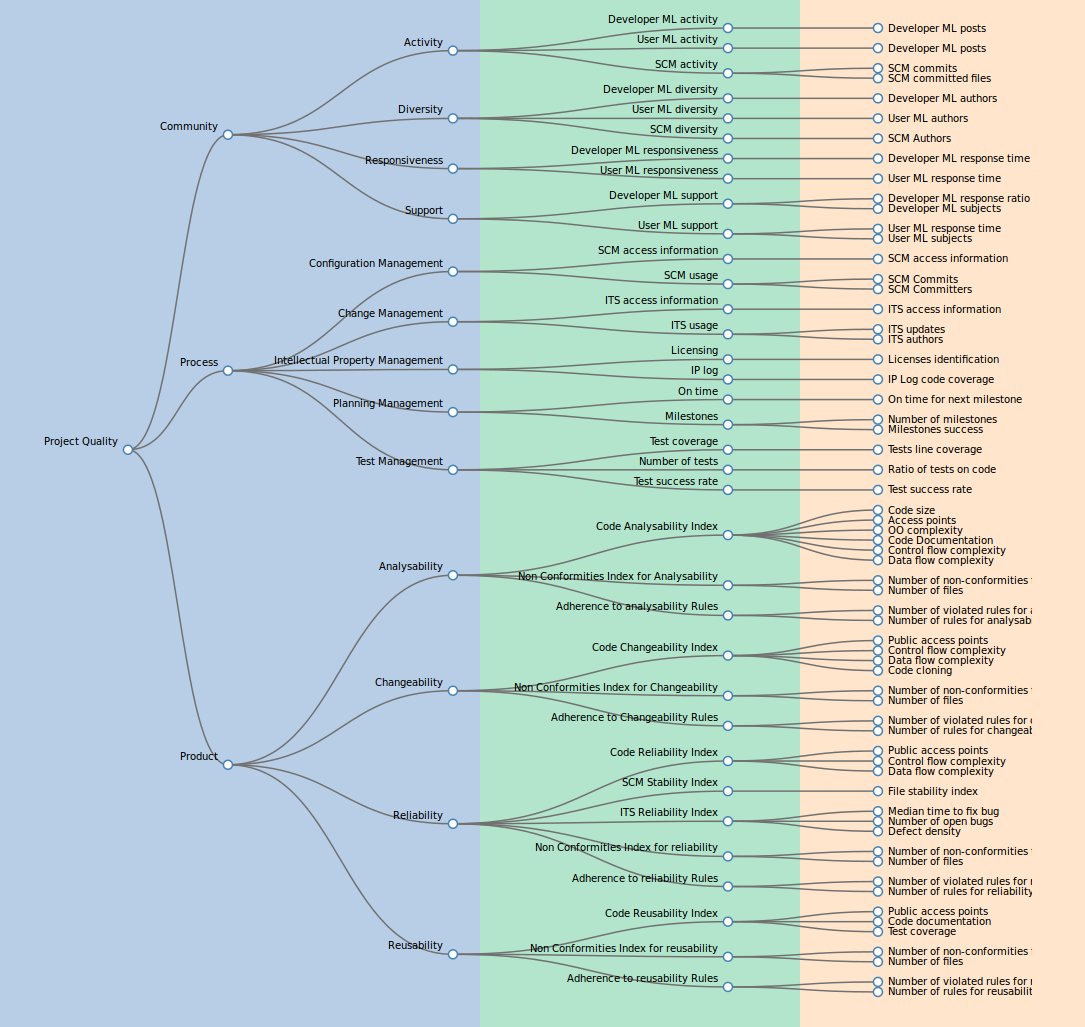
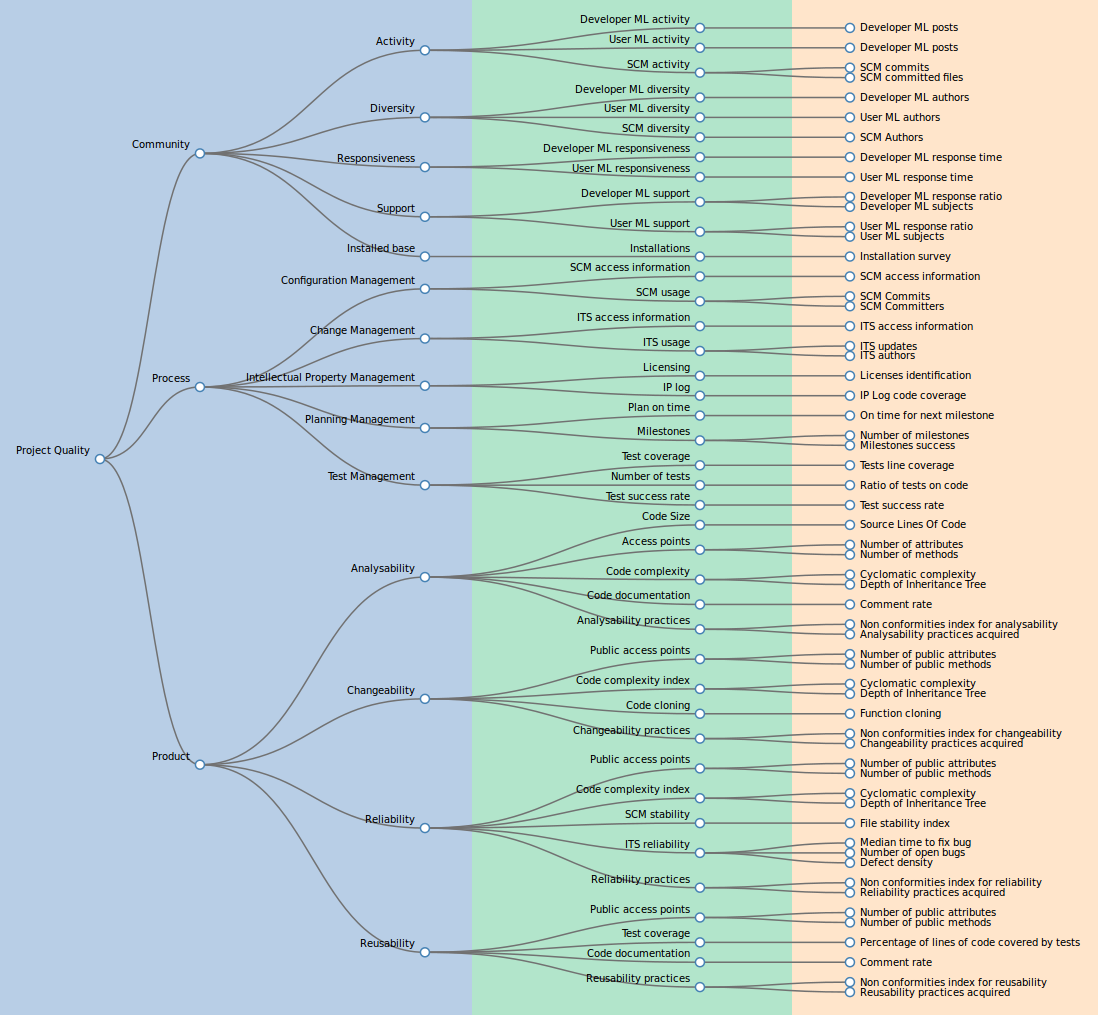
#1 fixed a minor bug in qm, updated pictures.

Changed region(s): [[0.0, 0.0, 0.9733, 1.0], [0.3041, 0.6108, 0.3346, 0.6414], [0.3041, 0.0611, 0.3346, 0.0916]]

diff --git a/scripts/describe_qm/target/concepts.html b/scripts/describe_qm/target/concepts.html
@@ -1,199 +1,156 @@
 <!DOCTYPE html><body>
 <link rel="stylesheet" type="text/css" href="styles.css"/>
 <h1>List of concepts for the PolarSys Maturity Assessment quality model</h1>
-<h2>Concept name</h2>
+<h4>Code complexity (CPX)</h4>
+<p class="desc">Description: The computational complexity of the code: control, data, inheritance.</p>
+<p class="desc">Concept is <b>active</b>.</p>
+<p>Composed of VG, MDIT.</p>
 <h4>Control flow complexity (CPX_CF)</h4>
 <p class="desc">Description: The computational complexity of the control flow structure in the code functions.</p>
 <p class="desc">Concept is <b>active</b>.</p>
 <p>Composed of VG.</p>
-<h2>Concept name</h2>
 <h4>Data flow complexity (CPX_DF)</h4>
 <p class="desc">Description: The complexity of the data flow structure in the code functions.</p>
 <p class="desc">Concept is <b>active</b>.</p>
 <p>Composed of DOPD, DOPT, TOPD, TOPT.</p>
-<h2>Concept name</h2>
 <h4>OO complexity (CPX_OO)</h4>
 <p class="desc">Description: The complexity of the object-oriented architecture and structure. Composed of MDIT (maximum depth of inheritance tree).</p>
 <p class="desc">Concept is <b>active</b>.</p>
 <p>Composed of MDIT.</p>
-<h2>Concept name</h2>
 <h4>Code documentation (CODE_DOC)</h4>
 <p class="desc">Description: The amount of documentation in the code: comment rate, javadoc, etc.</p>
 <p class="desc">Concept is <b>active</b>.</p>
 <p>Composed of COMR.</p>
-<h2>Concept name</h2>
 <h4>Code size (CODE_SIZE)</h4>
 <p class="desc">Description: The overall size of the code.</p>
 <p class="desc">Concept is <b>active</b>.</p>
 <p>Composed of SLOC.</p>
-<h2>Concept name</h2>
 <h4>Access points (ALL_DATA)</h4>
 <p class="desc">Description: The amount of attributes and methods on the class, whatever their visibility is.</p>
 <p class="desc">Concept is <b>active</b>.</p>
 <p>Composed of ATTRS, METHS.</p>
-<h2>Concept name</h2>
 <h4>Public access points (PUBLIC_DATA)</h4>
 <p class="desc">Description: Total number of public classes, interfaces, methods, constructors, annotations and attributes.</p>
 <p class="desc">Concept is <b>active</b>.</p>
 <p>Composed of ATTRS_PUBLIC, METHS_PUBLIC.</p>
-<h2>Concept name</h2>
+<h4>Code cloning (CODE_CLONE)</h4>
+<p class="desc">Description: The amount of duplicated lines in the code.</p>
+<p class="desc">Concept is <b>active</b>.</p>
+<p>Composed of FU_CLONE.</p>
+<h4>Licensing (LIC)</h4>
+<p class="desc">Description: Are licensing issues considered?</p>
+<p class="desc">Concept is <b>active</b>.</p>
+<p>Composed of LIC_IDENT.</p>
 <h4>IP Log (IP_LOG)</h4>
 <p class="desc">Description: Is the intellectual property of contributions checked and enforced?</p>
 <p class="desc">Concept is <b>active</b>.</p>
 <p>Composed of IP_LOG_COV.</p>
-<h2>Concept name</h2>
 <h4>SCM Documentation (SCM_DOCS)</h4>
 <p class="desc">Description: Is there some documentation about the SCM process, rules and conventions?</p>
-<p class="desc">Concept is <b>active</b>.</p>
-<h2>Concept name</h2>
+<p class="desc">Concept is <b>inactive</b> for now.</p>
+<p>Composed of .</p>
 <h4>ITS information access (PUB_ITS_INFO)</h4>
 <p class="desc">Description: Measures the availability of information regarding ITS usage, conventions, access.</p>
 <p class="desc">Concept is <b>active</b>.</p>
-<p>Composed of ITS_ISSUES_OPEN_1M, ITS_ISSUES_OPENERS_1M.</p>
-<h2>Concept name</h2>
+<p>Composed of .</p>
 <h4>ITS usage (ITS_USAGE)</h4>
-<p class="desc">Description: How much the ITS system was used during last month.</p>
+<p class="desc">Description: How much the ITS system was used recently.</p>
 <p class="desc">Concept is <b>active</b>.</p>
 <p>Composed of ITS_UPDATES_1M, ITS_AUTH_1M.</p>
-<h2>Concept name</h2>
+<h4>Installations (INSTALL)</h4>
+<p class="desc">Description: The level of usage of the product.</p>
+<p class="desc">Concept is <b>inactive</b> for now.</p>
+<p>Composed of SURVEY_INSTALL.</p>
 <h4>SCM information access (PUB_SCM_INFO)</h4>
 <p class="desc">Description: Measures the availability of information regarding SCM usage, conventions, access.</p>
 <p class="desc">Concept is <b>active</b>.</p>
-<h2>Concept name</h2>
 <h4>SCM usage (SCM_USAGE)</h4>
 <p class="desc">Description: How much the SCM system was used during last month.</p>
 <p class="desc">Concept is <b>active</b>.</p>
 <p>Composed of SCM_COMMITS_1M, SCM_COMMITTERS_1M.</p>
-<h2>Concept name</h2>
-<h4>SCM Stability Index (SCM_STABILITY_IDX)</h4>
-<p class="desc">Description: How much the files were stable according to the SCM system.</p>
+<h4>SCM Stability (SCM_STABILITY)</h4>
+<p class="desc">Description: How much the files are stable according to the SCM system. 
+A file which has been heavily modified recently lacks experience, tests and feedback. </p>
 <p class="desc">Concept is <b>active</b>.</p>
-<p>Composed of SCM_COMMITS_1M, FILES.</p>
-<h2>Concept name</h2>
-<h4>Code analysability index (CODE_ANA_IDX)</h4>
-<p class="desc">Description: A weighted index of code characteristics that impact analysability.</p>
+<p>Composed of SCM_STABILITY_1M.</p>
+<h4>Analysability practices (PRACTICES_ANA)</h4>
+<p class="desc">Description: What practices (rules checked) related to analysability are violated, and how often?</p>
 <p class="desc">Concept is <b>active</b>.</p>
-<h2>Concept name</h2>
-<h4>Non conformities index for analysability (RULES_ANA_IDX)</h4>
-<p class="desc">Description: Number of non conformities to analysability rules found in the artefact, divided by the number of files.</p>
+<p>Composed of NCC_ANA_IDX, ROKR_ANA.</p>
+<h4>Changeability practices (PRACTICES_CHA)</h4>
+<p class="desc">Description: What practices (rules checked) related to changeability are violated, and how often?</p>
 <p class="desc">Concept is <b>active</b>.</p>
-<p>Composed of NCC_ANA_IDX.</p>
-<h2>Concept name</h2>
-<h4>Analysability practices acquired (RULES_ANA_OK)</h4>
-<p class="desc">Description: Ratio of conform (non-violated) analysability practices on the number of checked analysability practices. </p>
+<p>Composed of NCC_CHA_IDX, ROKR_CHA.</p>
+<h4>Reliability practices (PRACTICES_REL)</h4>
+<p class="desc">Description: What practices (rules checked) related to reliability are violated, and how often?</p>
 <p class="desc">Concept is <b>active</b>.</p>
-<p>Composed of ROKR_ANA.</p>
-<h2>Concept name</h2>
-<h4>Code changeability index (CODE_CHA_IDX)</h4>
-<p class="desc">Description: A weighted index of code characteristics that impact changeability.</p>
+<p>Composed of NCC_REL_IDX, ROKR_REL.</p>
+<h4>Reusability practices (PRACTICES_REU)</h4>
+<p class="desc">Description: What practices (rules checked) related to reusability are violated, and how often?</p>
 <p class="desc">Concept is <b>active</b>.</p>
-<h2>Concept name</h2>
-<h4>Non conformities index for changeability (RULES_CHA_IDX)</h4>
-<p class="desc">Description: Number of non conformities to changeability rules found in the artefact, divided by the number of files.</p>
-<p class="desc">Concept is <b>active</b>.</p>
-<p>Composed of NCC_CHA_IDX.</p>
-<h2>Concept name</h2>
-<h4>Changeability practices acquired (RULES_CHA_OK)</h4>
-<p class="desc">Description: Ratio of conform changeability practices on the number of checked analysability practices. </p>
-<p class="desc">Concept is <b>active</b>.</p>
-<p>Composed of ROKR_CHA.</p>
-<h2>Concept name</h2>
-<h4>Code reliability index (CODE_REL_IDX)</h4>
-<p class="desc">Description: A weighted index of code characteristics that impact reliability.</p>
-<p class="desc">Concept is <b>active</b>.</p>
-<h2>Concept name</h2>
-<h4>Non conformities index for reliability (RULES_REL_IDX)</h4>
-<p class="desc">Description: Number of non conformities to reliability rules found in the artefact, divided by the number of files.</p>
-<p class="desc">Concept is <b>active</b>.</p>
-<p>Composed of NCC_REL_IDX.</p>
-<h2>Concept name</h2>
-<h4>Reliability practices acquired (RULES_REL_OK)</h4>
-<p class="desc">Description: Ratio of conform reliability practices on the number of checked analysability practices. </p>
-<p class="desc">Concept is <b>active</b>.</p>
-<p>Composed of ROKR_REL.</p>
-<h2>Concept name</h2>
-<h4>Code reusability index (CODE_REU_IDX)</h4>
-<p class="desc">Description: A weighted index of code characteristics that impact reusability.</p>
-<p class="desc">Concept is <b>active</b>.</p>
-<p>Composed of PUBLIC_DATA, COMR, TST_COV.</p>
-<h2>Concept name</h2>
-<h4>Non conformities index for reusability (RULES_REU_IDX)</h4>
-<p class="desc">Description: Number of non conformities to reusability rules found in the artefact, divided by the number of files.</p>
-<p class="desc">Concept is <b>active</b>.</p>
-<p>Composed of NCC_REU_IDX.</p>
-<h2>Concept name</h2>
-<h4>Reusability practices acquired (RULES_REU_OK)</h4>
-<p class="desc">Description: Ratio of conform reliability practices on the number of checked reusability practices. </p>
-<p class="desc">Concept is <b>active</b>.</p>
-<p>Composed of ROKR_REU.</p>
-<h2>Concept name</h2>
-<h4>ITS Reliability Index (ITS_REL_IDX)</h4>
+<p>Composed of NCC_REU_IDX, ROKR_REU.</p>
+<h4>ITS Reliability (ITS_REL)</h4>
 <p class="desc">Description: The reliability assessment of the project regarding registered bugs.</p>
 <p class="desc">Concept is <b>active</b>.</p>
 <p>Composed of ITS_FIX_MED_1M, ITS_BUGS_OPEN, ITS_BUGS_DENSITY.</p>
-<h2>Concept name</h2>
 <h4>Test coverage (TST_COV)</h4>
 <p class="desc">Description: What percentage of the product has tests?</p>
 <p class="desc">Concept is <b>active</b>.</p>
 <p>Composed of TST_COV_LINES.</p>
-<h2>Concept name</h2>
 <h4>Number of tests (TST_VOL)</h4>
 <p class="desc">Description: The overall amount of tests written for the project.</p>
 <p class="desc">Concept is <b>active</b>.</p>
 <p>Composed of TST_VOL_RATIO.</p>
-<h2>Concept name</h2>
 <h4>Test success rate (TST_SUCCESS)</h4>
 <p class="desc">Description: Are the available tests successful when executed?</p>
 <p class="desc">Concept is <b>active</b>.</p>
 <p>Composed of TST_SUCCESS_1W.</p>
-<h2>Concept name</h2>
 <h4>Developer ML activity (MLS_DEV_ACTIVITY)</h4>
 <p class="desc">Description: Activity on the developer mailing list.</p>
 <p class="desc">Concept is <b>active</b>.</p>
 <p>Composed of MLS_DEV_VOL_1M.</p>
-<h2>Concept name</h2>
 <h4>User ML activity (MLS_USR_ACTIVITY)</h4>
 <p class="desc">Description: Activity on the user mailing list.</p>
 <p class="desc">Concept is <b>active</b>.</p>
 <p>Composed of MLS_USR_VOL_1M.</p>
-<h2>Concept name</h2>
 <h4>SCM activity (SCM_ACTIVITY)</h4>
 <p class="desc">Description: Activity on the software configuration management system.</p>
 <p class="desc">Concept is <b>active</b>.</p>
-<p>Composed of SCM_COMMITS_1M.</p>
-<h2>Concept name</h2>
+<p>Composed of SCM_COMMITS_1M, SCM_COMMITTED_FILES_1M.</p>
 <h4>Developer ML diversity (MLS_DEV_DIVERSITY)</h4>
 <p class="desc">Description: Diversity of users on the developer mailing list.</p>
 <p class="desc">Concept is <b>active</b>.</p>
-<p>Composed of MLS_USR_AUTH_1M.</p>
-<h2>Concept name</h2>
+<p>Composed of MLS_DEV_AUTH_1M.</p>
 <h4>User ML diversity (MLS_USR_DIVERSITY)</h4>
 <p class="desc">Description: Diversity of users on the user mailing list.</p>
 <p class="desc">Concept is <b>active</b>.</p>
 <p>Composed of MLS_USR_AUTH_1M.</p>
-<h2>Concept name</h2>
 <h4>SCM diversity (SCM_DIVERSITY)</h4>
 <p class="desc">Description: Diversity of users on the software configuration management system.</p>
 <p class="desc">Concept is <b>active</b>.</p>
 <p>Composed of SCM_COMMITTERS_1M.</p>
-<h2>Concept name</h2>
 <h4>Developer ML responsiveness (MLS_DEV_RESPONSIVENESS)</h4>
 <p class="desc">Description: The delay of answers on the developer mailing list.</p>
 <p class="desc">Concept is <b>active</b>.</p>
 <p>Composed of MLS_DEV_RESP_TIME_MED_1M.</p>
-<h2>Concept name</h2>
 <h4>User ML responsiveness (MLS_USR_RESPONSIVENESS)</h4>
 <p class="desc">Description: The delay of answers on the developer mailing list.</p>
 <p class="desc">Concept is <b>active</b>.</p>
 <p>Composed of MLS_USR_RESP_TIME_MED_1M.</p>
-<h2>Concept name</h2>
 <h4>Developer ML support (MLS_DEV_SUPPORT)</h4>
 <p class="desc">Description: The quantity of information gathered by questions on the developer mailing list.</p>
 <p class="desc">Concept is <b>active</b>.</p>
-<p>Composed of MLS_DEV_RESP_RATIO_1M.</p>
-<h2>Concept name</h2>
+<p>Composed of MLS_DEV_RESP_RATIO_1M, MLS_DEV_SUBJ_1M.</p>
 <h4>User ML support (MLS_USR_SUPPORT)</h4>
 <p class="desc">Description: The quantity of information gathered by questions on the user mailing list.</p>
 <p class="desc">Concept is <b>active</b>.</p>
-<p>Composed of MLS_USR_RESP_RATIO_1M.</p>
+<p>Composed of MLS_USR_RESP_RATIO_1M, MLS_USR_SUBJ_1M.</p>
+<h4>Plan on time (PLAN_ON_TIME)</h4>
+<p class="desc">Description: Is the project on time according to its schedule?</p>
+<p class="desc">Concept is <b>active</b>.</p>
+<p>Composed of PLAN_NEXT_MILESTONE.</p>
+<h4>Milestones (PLAN_MILESTONES)</h4>
+<p class="desc">Description: Is the project having regular milestones, do they prove to be effective?</p>
+<p class="desc">Concept is <b>active</b>.</p>
+<p>Composed of PLAN_MILESTONES_VOL, PLAN_MILESTONES_SUCCESS.</p>
 </body></html>

diff --git a/scripts/describe_qm/target/metrics.html b/scripts/describe_qm/target/metrics.html
@@ -18,10 +18,10 @@
 <p class="desc">Description: Total number of public methods defined in the class.</p>
 <h4>Depth of Inheritance Tree (MDIT)</h4>
 <p class="desc">Description: Maximum depth of inheritance tree in the artefact.</p>
-<h4>Code cloning (CODE_CLON)</h4>
-<p class="desc">Description: The amount of duplicated lines in the code.</p>
 <h4>Source Lines Of Code (SLOC)</h4>
 <p class="desc">Description: </p>
+<h4>Function cloning (FU_CLONE)</h4>
+<p class="desc">Description: The amount of duplicated lines in the code.</p>
 <h4>Cyclomatic Complexity (VG)</h4>
 <p class="desc">Description: The number of execution paths found in the function.</p>
 <h4>Number of distinct operands (DOPD)</h4>
@@ -138,4 +138,6 @@
 <p class="desc">Description: The number of documents published for the usage, access, and conventions of the software configuration management system.</p>
 <h4>ITS information (PUB_ITS_INFO_CPI)</h4>
 <p class="desc">Description: The number of documents published for the usage, access, and conventions of the issue tracking system.</p>
+<h4>Installation survey (SURVEY_INSTALL)</h4>
+<p class="desc">Description: A survey stating how much the software has been installed: number of users, geography (are the teams co-located or distributed?), etc.</p>
 </body></html>
